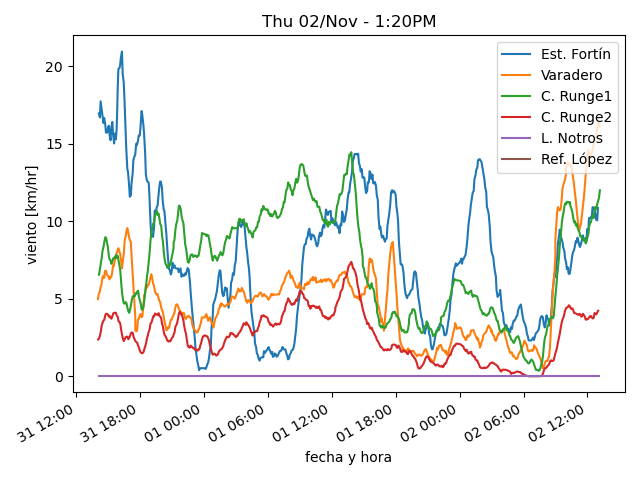
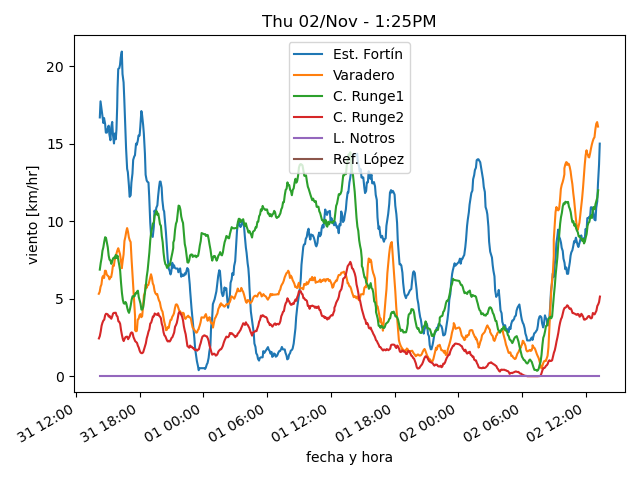
actualiza datos

diff --git a/estaciones/estacion4.html b/estaciones/estacion4.html
@@ -18,32 +18,32 @@
     </tr>
     <tr>
      <td class="stats_data">
-      12:59PM
+      1:19PM
      </td>
     </tr>
     <tr>
      <td class="stats_data">
-      12.4⁰C
+      13.7⁰C
      </td>
     </tr>
     <tr>
      <td class="stats_data">
-      4.1⁰C
+      4.7⁰C
      </td>
     </tr>
     <tr>
      <td class="stats_data">
-      57.0%
+      54.5%
      </td>
     </tr>
     <tr>
      <td class="stats_data">
-      1019.34hPa
+      1019.03hPa
      </td>
     </tr>
     <tr>
      <td class="stats_data">
-      3.5/5.2 km/hr ENE
+      4.1/6.7 km/hr WSW
      </td>
     </tr>
     <tr>
@@ -53,12 +53,12 @@
     </tr>
     <tr>
      <td class="stats_data">
-      8.0
+      10.0
      </td>
     </tr>
     <tr>
      <td class="stats_data">
-      860.9 W/m²
+      1102.6 W/m²
      </td>
     </tr>
    </tbody>

diff --git a/estaciones/estacion1.html b/estaciones/estacion1.html
@@ -18,32 +18,32 @@
     </tr>
     <tr>
      <td class="stats_data">
-      12:58PM
+      1:18PM
      </td>
     </tr>
     <tr>
      <td class="stats_data">
-      10.5⁰C
+      10.9⁰C
      </td>
     </tr>
     <tr>
      <td class="stats_data">
-      3.8⁰C
+      2.3⁰C
      </td>
     </tr>
     <tr>
      <td class="stats_data">
-      63.0%
+      55.0%
      </td>
     </tr>
     <tr>
      <td class="stats_data">
-      1021.33hPa
+      1021.0hPa
      </td>
     </tr>
     <tr>
      <td class="stats_data">
-      6.3/24.1 km/hr W
+      15.3/24.9 km/hr WNW
      </td>
     </tr>
     <tr>
@@ -53,12 +53,12 @@
     </tr>
     <tr>
      <td class="stats_data">
-      3.2
+      4.3
      </td>
     </tr>
     <tr>
      <td class="stats_data">
-      362.0 W/m²
+      489.0 W/m²
      </td>
     </tr>
    </tbody>

diff --git a/estaciones/estacion5.html b/estaciones/estacion5.html
@@ -18,27 +18,27 @@
     </tr>
     <tr>
      <td class="stats_data">
-      1:05PM
+      1:15PM
      </td>
     </tr>
     <tr>
      <td class="stats_data">
-      12.9⁰C
+      13.4⁰C
      </td>
     </tr>
     <tr>
      <td class="stats_data">
-      4.6⁰C
+      4.8⁰C
      </td>
     </tr>
     <tr>
      <td class="stats_data">
-      57.0%
+      56.0%
      </td>
     </tr>
     <tr>
      <td class="stats_data">
-      1019.84hPa
+      1019.57hPa
      </td>
     </tr>
     <tr>
